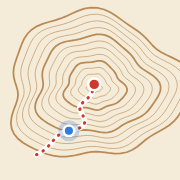
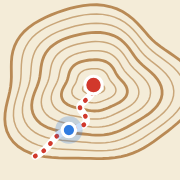
アイコンを、細かい版と太い版の中間のデザインに変更
細かい版は icons/icon-thin.svg、太い版は icons/icon-bold.svg に残してある。

diff --git a/sw.js b/sw.js
@@ -1,5 +1,5 @@
 // アプリ本体と、保存した地図タイルを端末に持たせるための Service Worker
-var APP = 'yama-app-v9';
+var APP = 'yama-app-v10';
 var TILES = 'yama-tiles-v1';
 var SHELL = ['./', 'manifest.webmanifest', 'icons/icon-192.png', 'icons/icon-512.png', 'icons/apple-touch-icon.png', 'icons/favicon-32.png', 'index.html', 'style.css', 'app.js', 'offline.js', 'db.js', 'courses.js', 'log.js', 'routes.js', 'nav.js', 'track.js', 'plan.js',
   'lib/leaflet.min.js', 'lib/leaflet.min.css',
